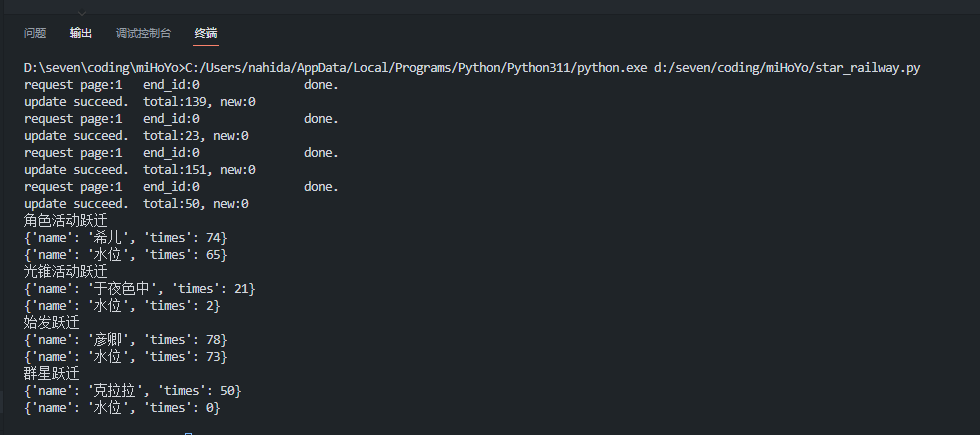
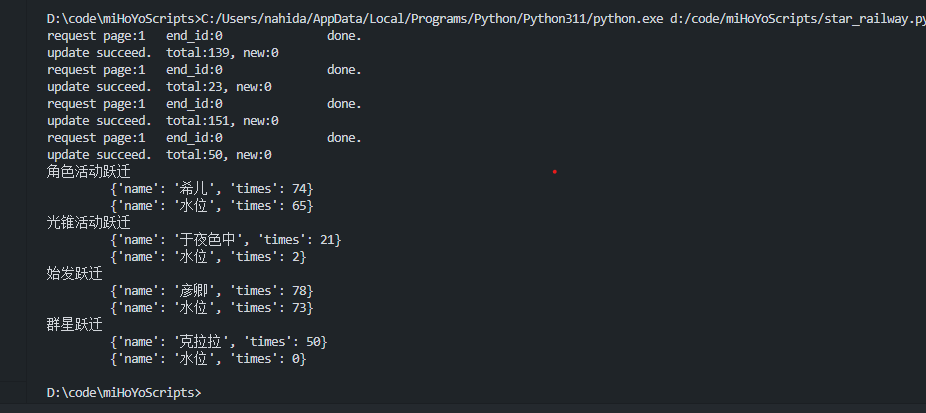
print format

Changed region(s): [[0.0, 0.0291, 1.0, 0.9588]]

diff --git a/star_railway.py b/star_railway.py
@@ -1,4 +1,3 @@
-
 # -- coding: utf-8 --
 
 import json
@@ -80,7 +79,7 @@ class GachaLogContext(object):
                 isInsise, pos = item_in_data(tempory_data[-1], self._LocalData)
                 if isInsise:
                     repeat_len = pos
-                self._LocalData = tempory_data + self._LocalData[repeat_len+1:]
+                self._LocalData = tempory_data + self._LocalData[repeat_len + 1:]
                 print(f"update succeed.  total:{len(self._LocalData)}, new:{len(tempory_data)-repeat_len-1}")
             else:
                 self._LocalData = tempory_data
@@ -125,4 +124,4 @@ if __name__ == "__main__":
     for ty in all_fives.keys():
         print(gacha_type[ty])
         for five in all_fives[ty]:
-            print(five)
+            print("\t", five)
